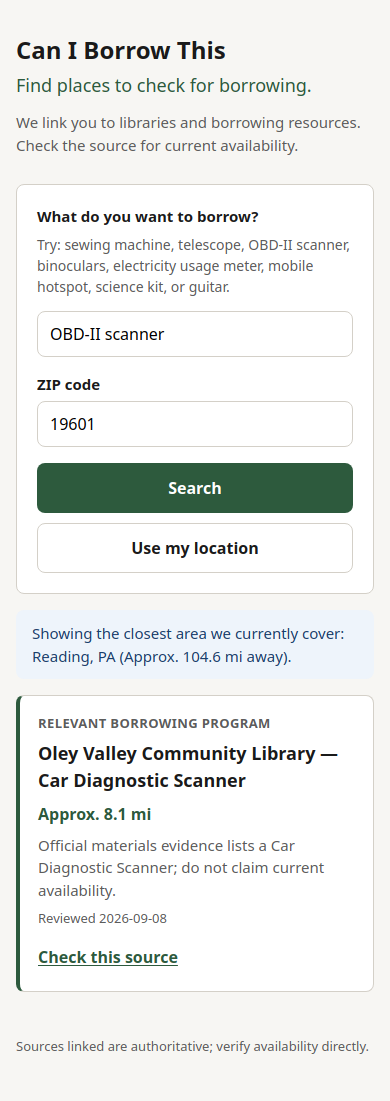
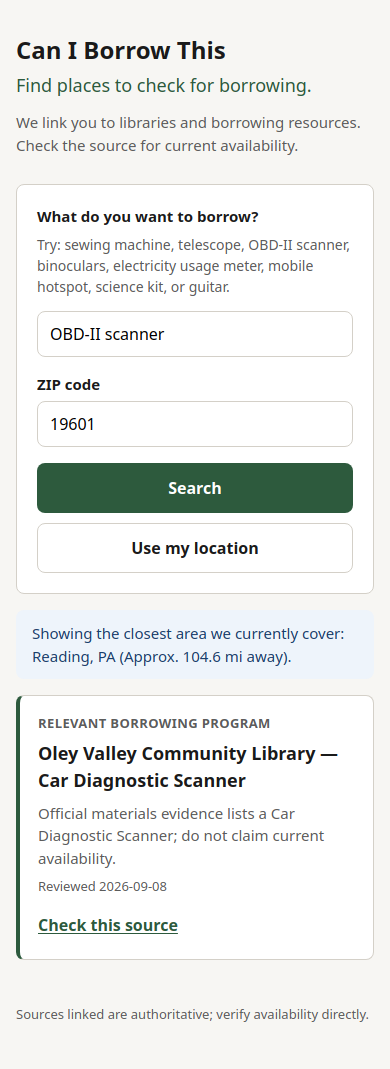
fix: suppress misleading nearby fallbacks and distances for distant GEO
When geolocation selects a coverage area more than 15 miles from the
user, filter out NEARBY_LIBRARY_TO_ASK fallback cards and strip
ZIP-reference distance labels that could be misread as user distance.
Near GEO and manual ZIP behavior unchanged.

Adds P4-11 regression tests and updates distant-GEO browser evidence.

diff --git a/js/search.js b/js/search.js
@@ -1,6 +1,6 @@
 import { SOURCES, RESULT_CLASS, RESULT_CLASS_LABEL, PILOT_ZIPS } from './data.js';
 import { normalizeObject } from './normalize.js';
-import { validateZip, formatApproxDistance } from './geo.js';
+import { validateZip, formatApproxDistance, GEO_CONTEXT_THRESHOLD_MI } from './geo.js';
 import {
   measureSearchSubmitted,
   measureResultsRendered,
@@ -43,6 +43,30 @@ function fallbackMatchesGeography(source, zip) {
   return source.class === RESULT_CLASS.FALLBACK && source.geographyZips?.includes(zip);
 }
 
+function isDistantGeo(locationMode, geoDistanceMi) {
+  return (
+    locationMode === 'GEO' &&
+    geoDistanceMi != null &&
+    geoDistanceMi > GEO_CONTEXT_THRESHOLD_MI
+  );
+}
+
+function applyDistantGeoTrustPolicy(results, disclaimers, locationMode, geoDistanceMi) {
+  if (!isDistantGeo(locationMode, geoDistanceMi)) {
+    return { results, disclaimers };
+  }
+
+  const filteredResults = results
+    .filter((r) => r.class !== RESULT_CLASS.FALLBACK)
+    .map(({ distanceLabel, ...rest }) => rest);
+
+  const filteredDisclaimers = disclaimers.filter(
+    (d) => !d.includes('nearby library below'),
+  );
+
+  return { results: filteredResults, disclaimers: filteredDisclaimers };
+}
+
 function buildResult(source, zip) {
   const result = {
     sourceId: source.id,
@@ -65,9 +89,9 @@ function buildResult(source, zip) {
 
 /**
  * Core search logic — pure function for testability.
- * @param {{ objectText: string, zip: string, locationMode?: 'ZIP' | 'GEO' }} input
+ * @param {{ objectText: string, zip: string, locationMode?: 'ZIP' | 'GEO', geoDistanceMi?: number }} input
  */
-export function search({ objectText, zip, locationMode = 'ZIP' }) {
+export function search({ objectText, zip, locationMode = 'ZIP', geoDistanceMi }) {
   const zipResult = validateZip(zip);
 
   if (zipResult.status === 'INVALID') {
@@ -113,24 +137,35 @@ export function search({ objectText, zip, locationMode = 'ZIP' }) {
       .filter((s) => fallbackMatchesGeography(s, pilotZip))
       .map((s) => buildResult(s, pilotZip));
 
-    const disclaimers = [MESSAGES.unsupportedObject];
+    let disclaimers = [MESSAGES.unsupportedObject];
     if (fallbacks.length > 0) {
       disclaimers.push(
         'The nearby library below is a generic place to ask — not a match for this object.',
       );
     }
 
-    const results = fallbacks;
+    let results = fallbacks;
+    let message = null;
+    ({ results, disclaimers } = applyDistantGeoTrustPolicy(
+      results,
+      disclaimers,
+      locationMode,
+      geoDistanceMi,
+    ));
+    if (results.length === 0 && fallbacks.length > 0) {
+      message = MESSAGES.noNearbyEvidence;
+    }
+
     measureResultsRendered({
       relevant: 0,
       resource: 0,
-      fallback: results.length,
+      fallback: results.filter((r) => r.class === RESULT_CLASS.FALLBACK).length,
       none: results.length === 0 ? 1 : 0,
     });
 
     return {
       status: 'ok',
-      message: null,
+      message,
       results,
       disclaimers,
       objectClass: null,
@@ -176,18 +211,31 @@ export function search({ objectText, zip, locationMode = 'ZIP' }) {
       };
     }
 
+    let results = fallbacks;
+    let message = null;
+    let finalDisclaimers = [MESSAGES.unrecognizedObject, ...disclaimers];
+    ({ results, disclaimers: finalDisclaimers } = applyDistantGeoTrustPolicy(
+      results,
+      finalDisclaimers,
+      locationMode,
+      geoDistanceMi,
+    ));
+    if (results.length === 0 && fallbacks.length > 0) {
+      message = MESSAGES.noNearbyEvidence;
+    }
+
     measureResultsRendered({
       relevant: 0,
       resource: 0,
-      fallback: fallbacks.length,
-      none: 0,
+      fallback: results.filter((r) => r.class === RESULT_CLASS.FALLBACK).length,
+      none: results.length === 0 ? 1 : 0,
     });
 
     return {
       status: 'ok',
-      message: null,
-      results: fallbacks,
-      disclaimers: [MESSAGES.unrecognizedObject, ...disclaimers],
+      message,
+      results,
+      disclaimers: finalDisclaimers,
       objectClass: null,
     };
   }
@@ -233,7 +281,7 @@ export function search({ objectText, zip, locationMode = 'ZIP' }) {
     .map((s) => buildResult(s, pilotZip));
 
   const hasRelevantOrResource = relevant.length > 0 || resources.length > 0;
-  const disclaimers = [];
+  let disclaimers = [];
 
   if (!hasRelevantOrResource && fallbacks.length > 0) {
     disclaimers.push(MESSAGES.noRelevantSource);
@@ -267,16 +315,28 @@ export function search({ objectText, zip, locationMode = 'ZIP' }) {
     return aNational - bNational;
   });
 
+  let message = null;
+  const preFilterCount = results.length;
+  ({ results, disclaimers } = applyDistantGeoTrustPolicy(
+    results,
+    disclaimers,
+    locationMode,
+    geoDistanceMi,
+  ));
+  if (results.length === 0 && preFilterCount > 0 && !hasRelevantOrResource) {
+    message = MESSAGES.noNearbyEvidence;
+  }
+
   measureResultsRendered({
-    relevant: relevant.length,
-    resource: resources.length,
-    fallback: hasRelevantOrResource ? fallbacks.length : results.filter((r) => r.class === RESULT_CLASS.FALLBACK).length,
+    relevant: results.filter((r) => r.class === RESULT_CLASS.RELEVANT).length,
+    resource: results.filter((r) => r.class === RESULT_CLASS.RESOURCE).length,
+    fallback: results.filter((r) => r.class === RESULT_CLASS.FALLBACK).length,
     none: results.length === 0 ? 1 : 0,
   });
 
   return {
     status: 'ok',
-    message: null,
+    message,
     results,
     disclaimers,
     objectClass,

diff --git a/tests/pass004.test.js b/tests/pass004.test.js
@@ -143,3 +143,51 @@ describe('P4-10 public copy strings', () => {
     assert.match(MESSAGES.unrecognizedObject, /reviewed match/);
   });
 });
+
+describe('P4-11 distant GEO trust: no misleading nearby fallbacks or distances', () => {
+  const distantMi = GEO_CONTEXT_THRESHOLD_MI + 50;
+
+  it('far GEO + generic-only outcome does not render Nearby library to ask', () => {
+    const out = search({
+      objectText: 'pressure washer',
+      zip: '16693',
+      locationMode: 'GEO',
+      geoDistanceMi: distantMi,
+    });
+    assert.equal(out.status, 'ok');
+    assert.ok(!out.results.some((r) => r.class === RESULT_CLASS.FALLBACK));
+    assert.ok(!out.results.some((r) => r.classLabel === 'Nearby library to ask'));
+    assert.ok(out.disclaimers.some((d) => d === MESSAGES.noRelevantSource));
+  });
+
+  it('far GEO + relevant result suppresses ZIP-reference distance labels', () => {
+    const out = search({
+      objectText: 'OBD-II scanner',
+      zip: '19601',
+      locationMode: 'GEO',
+      geoDistanceMi: distantMi,
+    });
+    assert.equal(out.status, 'ok');
+    assert.ok(out.results.some((r) => r.class === RESULT_CLASS.RELEVANT));
+    assert.ok(out.results.every((r) => !r.distanceLabel));
+  });
+
+  it('near GEO retains fallback cards and distance labels', () => {
+    const out = search({
+      objectText: 'sewing machine',
+      zip: '16693',
+      locationMode: 'GEO',
+      geoDistanceMi: 5,
+    });
+    assert.equal(out.status, 'ok');
+    assert.equal(out.results[0].distanceLabel, 'Approx. 10.7 mi');
+    assert.ok(out.results.some((r) => r.class === RESULT_CLASS.FALLBACK));
+  });
+
+  it('manual ZIP retains fallback cards and distance labels', () => {
+    const out = search({ objectText: 'sewing machine', zip: '16693', locationMode: 'ZIP' });
+    assert.equal(out.status, 'ok');
+    assert.equal(out.results[0].distanceLabel, 'Approx. 10.7 mi');
+    assert.ok(out.results.some((r) => r.class === RESULT_CLASS.FALLBACK));
+  });
+});

diff --git a/js/app.js b/js/app.js
@@ -16,6 +16,7 @@ const resultsEl = document.getElementById('results');
 let activeZip = '';
 let locationMode = 'ZIP';
 let pendingGeoContext = null;
+let lastGeoDistanceMi = null;
 
 function clearUI() {
   statusEl.textContent = '';
@@ -92,6 +93,7 @@ function runSearch() {
     objectText: objectInput.value,
     zip,
     locationMode,
+    geoDistanceMi: locationMode === 'GEO' ? lastGeoDistanceMi : undefined,
   });
 
   if (pendingGeoContext) {
@@ -119,6 +121,7 @@ form.addEventListener('submit', (e) => {
   locationMode = 'ZIP';
   activeZip = zipInput.value.trim();
   pendingGeoContext = null;
+  lastGeoDistanceMi = null;
   runSearch();
 });
 
@@ -142,6 +145,7 @@ locateBtn.addEventListener('click', () => {
 
       locationMode = 'GEO';
       activeZip = nearest.zip;
+      lastGeoDistanceMi = nearest.distanceMi;
       zipInput.value = nearest.zip;
       pendingGeoContext = formatGeoCoverageContext(nearest.label, nearest.distanceMi);
       runSearch();
